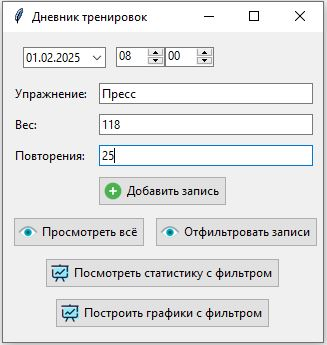
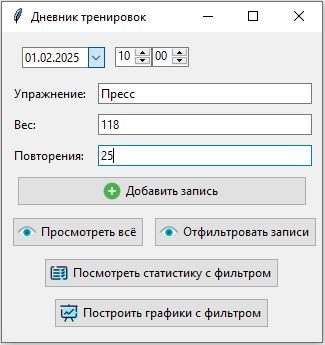
Ввод данных по клавише Enter, изменить расчет статистики

diff --git a/window/main_window.py b/window/main_window.py
@@ -5,7 +5,7 @@ from tkcalendar import DateEntry
 
 from utilities.file_utl import image_to_icon, load_data, save_data, load_data_filter
 from utilities.charts import create_any_plot
-from settings import ICON_VIEW, ICON_CHART, ICON_ADD, STATISTIC
+from settings import ICON_VIEW, ICON_CHART, ICON_ADD, ICON_STAT, STATISTIC
 from window.select_dare_period import DateSelectionWindow
 from window.training_grid import ToplevelGrid
 
@@ -21,11 +21,11 @@ class DateTimePicker(ttk.Frame):
         self.date_entry.pack(side=tk.LEFT, padx=10, pady=5)
 
         validate = self.master.register(self._validate_digit_input)
-        self.hour_spin = ttk.Spinbox(self, from_=0, to=23, width=5, format='%02.0f', validate="key",
+        self.hour_spin = ttk.Spinbox(self, from_=0, to=23, width=3, format='%02.0f', validate="key",
                                      validatecommand=(validate, '%P'))
         self.hour_spin.pack(side=tk.LEFT, padx=0, pady=5)
 
-        self.minute_spin = ttk.Spinbox(self, from_=0, to=59, width=5, format='%02.0f', validate="key",
+        self.minute_spin = ttk.Spinbox(self, from_=0, to=59, width=3, format='%02.0f', validate="key",
                                      validatecommand=(validate, '%P'))
         self.minute_spin.pack(side=tk.LEFT, padx=0, pady=5)
 
@@ -69,6 +69,7 @@ class TrainingLogApp(tk.Tk):
         self.icon_view = image_to_icon(ICON_VIEW)
         self.icon_chart = image_to_icon(ICON_CHART)
         self.icon_add = image_to_icon(ICON_ADD)
+        self.icon_statistic = image_to_icon(ICON_STAT)
 
         self.main_frame = ttk.Frame(self)
         self.main_frame.pack(padx=5, pady=5, expand=True, fill=tk.BOTH)
@@ -98,7 +99,10 @@ class TrainingLogApp(tk.Tk):
 
         self.add_button = ttk.Button(self.main_frame, text="Добавить запись ", command=self.add_entry,
                                      image=self.icon_add, compound=tk.LEFT)
-        self.add_button.grid(column=0, row=4, columnspan=2, pady=5, padx=10)
+        self.add_button.grid(column=0, row=4, columnspan=2, pady=5, padx=10, sticky=tk.EW)
+
+        # Определим нажатие клавиши Enter в поле repetitions_entry как событие "Добавить запись"
+        self.repetitions_entry.bind('<Return>', self.add_entry)
 
         self.frame_view = tk.Frame(self.main_frame)
         self.frame_view.grid(row=5, column=0, columnspan=2, pady=1)
@@ -113,7 +117,7 @@ class TrainingLogApp(tk.Tk):
 
         self.view_button = ttk.Button(self.main_frame, text="Посмотреть статистику с фильтром ",
                                       command=self.view_statistics,
-                                      image=self.icon_chart, compound=tk.LEFT)
+                                      image=self.icon_statistic, compound=tk.LEFT)
         self.view_button.grid(column=0, row=6, columnspan=2, pady=5, padx=5)
 
         self.view_button = ttk.Button(self.main_frame, text="Построить графики с фильтром ",
@@ -141,7 +145,7 @@ class TrainingLogApp(tk.Tk):
         except ValueError:
             return False
 
-    def add_entry(self):
+    def add_entry(self, event=None):
         """
         Добавление записи в журнал (json-файл)
         """

diff --git a/window/select_dare_period.py b/window/select_dare_period.py
@@ -16,11 +16,12 @@ class DateSelectionWindow(tk.Toplevel):
         self.title("Выбор периода")
         screen_width = self.winfo_screenwidth()
         screen_height = self.winfo_screenheight()
-        x = (screen_width / 2) - 110
-        y = (screen_height / 2) - 50
-        self.geometry('%dx%d+%d+%d' % (265, 100, x, y))
+        x = int((screen_width - 265) / 2)
+        y = int((screen_height - 136) / 2)
+        self.geometry('%dx%d+%d+%d' % (265, 136, x, y))
         self.resizable(False, False)
 
+        self.label_info = ttk.Label(self, text='<Отмена> - фильтрация без учета дат.')
         self.label_start_date = tk.Label(self, text="Начальная дата:")
         self.label_end_date = tk.Label(self, text="Конечная дата:")
         self.date_entry_start = DateEntry(self, width=10, bg='darkblue', fg='white', borderwidth=3, relief='ridge',
@@ -45,20 +46,24 @@ class DateSelectionWindow(tk.Toplevel):
             image=self.icon_cancel,
             compound=tk.LEFT
         )
-        self.label_start_date.grid(row=0, column=0, padx=5, pady=5, sticky=tk.E)
-        self.date_entry_start.grid(row=0, column=1, padx=5, pady=5, sticky=tk.W)
-        self.label_end_date.grid(row=1, column=0, padx=5, pady=5, sticky=tk.E)
-        self.date_entry_end.grid(row=1, column=1, padx=5, pady=5, sticky=tk.W)
-        self.button_ok.grid(row=2, padx=10, column=0, pady=5)
-        self.button_cancel.grid(row=2, padx=10, column=1, pady=5)
+        # Определим нажатие клавиши Enter как событие "Добавить запись"
+        self.bind('<Return>', self.on_button_click)
 
-    def on_button_click(self, parent):
+        self.label_info.grid(row=0, column=0, padx=5, pady=5, columnspan=2, sticky=tk.W)
+        self.label_start_date.grid(row=1, column=0, padx=5, pady=5, sticky=tk.E)
+        self.date_entry_start.grid(row=1, column=1, padx=5, pady=5, sticky=tk.W)
+        self.label_end_date.grid(row=2, column=0, padx=5, pady=5, sticky=tk.E)
+        self.date_entry_end.grid(row=2, column=1, padx=5, pady=5, sticky=tk.W)
+        self.button_ok.grid(row=3, padx=10, column=0, pady=5)
+        self.button_cancel.grid(row=3, padx=10, column=1, pady=5)
+
+    def on_button_click(self, parent=None):
         """ Нажата кнопка <ОК> """
         self.selected_start_date = self.date_entry_start.get_date()
         self.selected_end_date = self.date_entry_end.get_date()
         self.destroy()
 
-    def cancel_button_click(self, parent):
+    def cancel_button_click(self, parent=None):
         """ Нажата кнопка <Отмена> """
         self.selected_start_date = None
         self.selected_end_date = None

diff --git a/settings.py b/settings.py
@@ -1,7 +1,7 @@
 # Настройки приложения
 
 from utilities.stat import (stat_weight_reduce, stat_relative_weight, stat_count_training,
-                            stat_count_in_day, stat_average_weight_loss)
+                            stat_training_in_day, stat_average_weight_loss)
 
 # Файл для сохранения данных
 data_file = 'data/training_log.json'
@@ -19,6 +19,7 @@ ICON_CHART = './icon/chart.png'
 ICON_OK = './icon/ok.png'
 ICON_CANCEL = './icon/cancel.png'
 ICON_EDIT = './icon/edit.png'
+ICON_STAT = './icon/statistic.png'
 
 # Текст вывода статистики. Настройка производится в формате списка списков:
 # [['Текст до параметра', <функция для вычисления>, 'Текст после параметра'], ...]
@@ -44,7 +45,7 @@ STATISTIC = [
     ],
     [
         'Среднее количество тренировок в день: ',
-        stat_count_in_day,
+        stat_training_in_day,
         '\n'
     ],
     [

diff --git a/window/edit_window.py b/window/edit_window.py
@@ -47,6 +47,9 @@ class EditWindow(tk.Toplevel):
                                      image=self.icon_ok, compound=tk.LEFT)
         self.add_button.grid(column=0, row=4, pady=5, padx=10)
 
+        # Определим нажатие клавиши Enter как событие "Добавить запись"
+        self.bind('<Return>', self.on_button_click)
+
         self.add_button = ttk.Button(self, text="Отмена ", command=self.cancel_button_click,
                                      image=self.icon_cancel, compound=tk.LEFT)
         self.add_button.grid(column=1, row=4, pady=5, padx=10)
@@ -72,7 +75,7 @@ class EditWindow(tk.Toplevel):
         except ValueError:
             return False
 
-    def on_button_click(self):
+    def on_button_click(self, event=None):
         """ Нажата клавиша <ОК> """
         self.exercise = self.exercise_entry.get()
         self.weight = self.weight_entry.get()

diff --git a/utilities/stat.py b/utilities/stat.py
@@ -30,13 +30,21 @@ def stat_count_training(data) -> str:
     return str(len(data))
 
 
-def stat_count_in_day(data) -> str:
+def stat_count_day(data) -> str:
     """
-    Среднее количество тренировок в день
+    Количество дней в периоде
     """
     dt_list = [datetime.strptime(x['date'], '%Y-%m-%d %H:%M') for x in data]
     # Дельта в днях
-    day = max((dt_list[-1] - dt_list[0]).days, 1)
+    day = (dt_list[-1] - dt_list[0]).days + 1
+    return str(int(day))
+
+
+def stat_training_in_day(data) -> str:
+    """
+    Среднее количество тренировок в день
+    """
+    day = int(stat_count_day(data))
     return (str(round(len(data) / day, 2)) +
             f' (дней: {day})')
 

diff --git a/utilities/charts.py b/utilities/charts.py
@@ -3,7 +3,6 @@ from tkinter import messagebox
 
 import matplotlib.pyplot as plt
 from matplotlib import pylab
-from pyexpat.errors import messages
 
 from .calculations import difference_values
 
@@ -40,7 +39,7 @@ def create_any_plot(data):
     ax2 = plt.subplot2grid(shape=(15, 10), loc=(6, 0), rowspan=3, colspan=10)
     ax2.plot(dt_list, dif_list, label='Снижение веса', linewidth=0.8)
     # Отмечаем нулевую линию
-    ax2.axhline(0, color='red', linestyle='--', linewidth=1)
+    ax2.axhline(0, color='red', linestyle='--', linewidth=0.5)
     ax2.set_title('Изменение веса (снижение)')
     ax2.set_ylabel('Снижение веса')
     ax2.legend()

diff --git a/README.md b/README.md
@@ -23,6 +23,7 @@
 - Добавлен вывод статистики по тренировкам. Статистика может рассчитываться как по всем данным, 
 так и по отфильтрованным данным по любому полю/полям и датам. Вывод статистики полностью настраивается
 в файле настроек.  
+- Добавлена возможность занесения данных в журнал по нажатию клавиши Enter.  
 
 
 ### Скриншот приложения:
@@ -35,7 +36,7 @@
 Используется для фильтрации данных при выводе самих данных, а так же для построения графиков и 
 расчета статистики. Для фильтрации данных помимо дат, используются данные из полей ввода.  
 ![img04](https://github.com/Topotun77/training_log/blob/master/ScreenShots/n005.JPG?raw=true)
-### График построенный по данным:
+### График, построенный по данным:
 Также можно построить график по отфильтрованным данным.  
 ![img05](https://github.com/Topotun77/training_log/blob/master/ScreenShots/n003.JPG?raw=true)
 ### Статистика по отфильтрованным данным:
